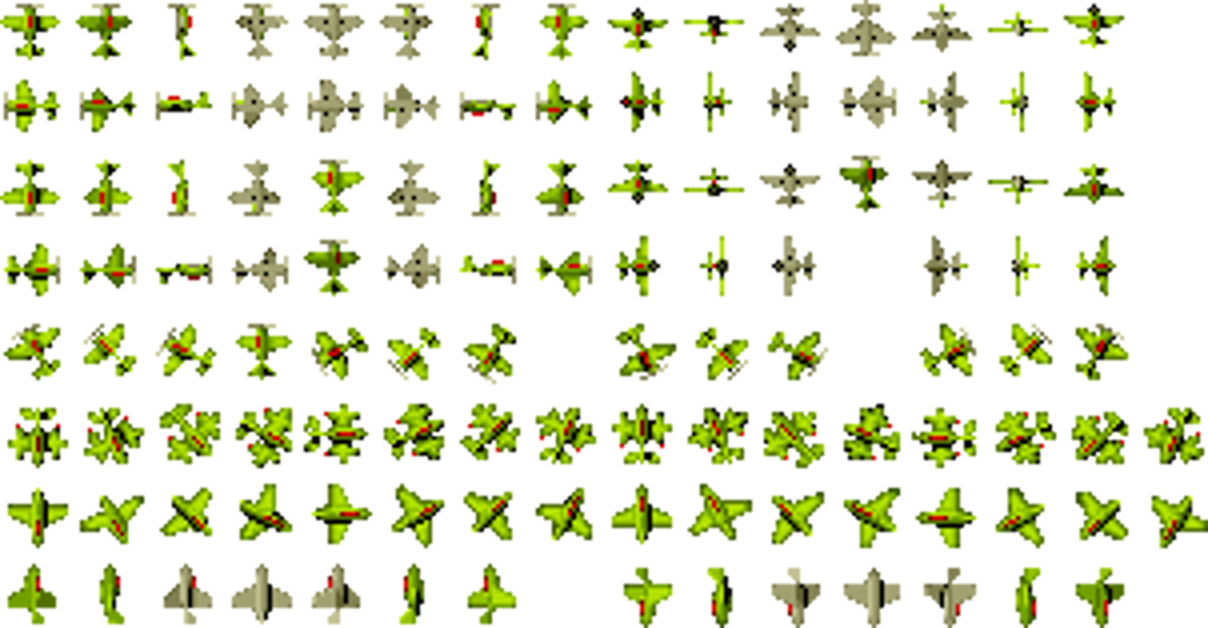
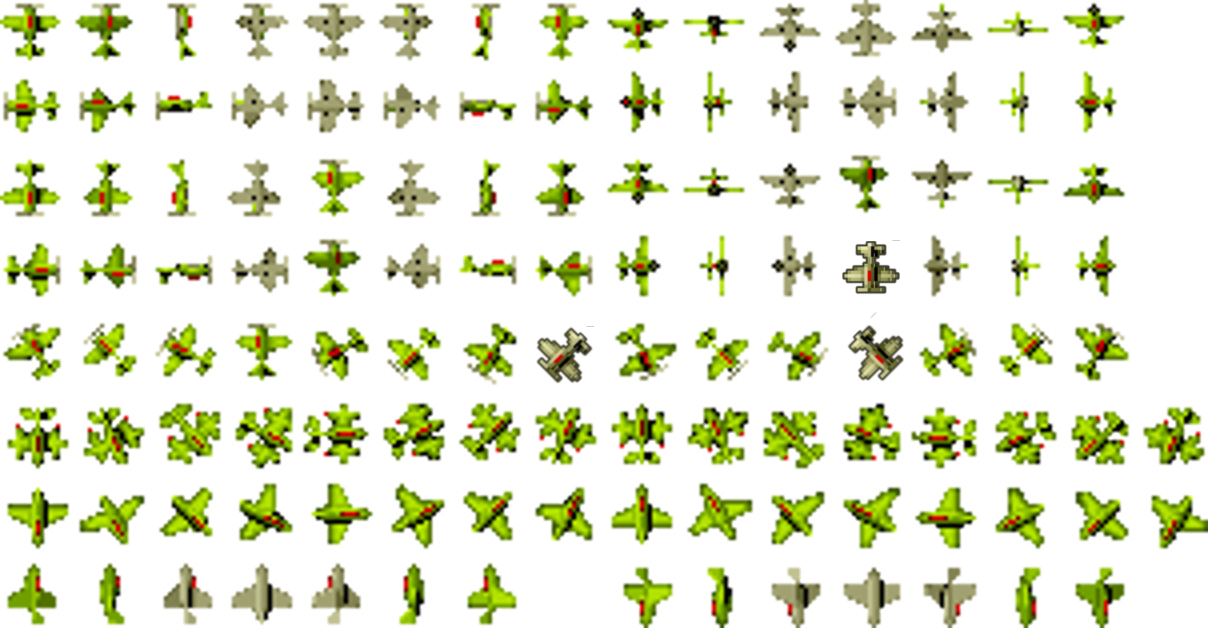
ok

Changed region(s): [[0.7045, 0.5143, 0.7657, 0.6051], [0.6738, 0.3631, 0.7657, 0.4841], [0.4288, 0.5143, 0.4901, 0.6051]]

diff --git a/src/AnimatorHolder.cpp b/src/AnimatorHolder.cpp
@@ -716,41 +716,41 @@ void triggerMedGreenTripleEngAnimators(){
 
 void triggerstartEnemyPlanesTickAnimator(){
     //Bullets
-    TimerTickAnimator::startTimeTickAnimator("enemyBulletsTickAnimation", AnimatorHolder::triggerBullets);
+    //TimerTickAnimator::startTimeTickAnimator("enemyBulletsTickAnimation", AnimatorHolder::triggerBullets);
     
     //Bonus Planes
-    TimerTickAnimator::startTimeTickAnimator("redPlaneTickAnimations", triggerRedPlaneTickAnimations );
+    //TimerTickAnimator::startTimeTickAnimator("redPlaneTickAnimations", triggerRedPlaneTickAnimations );
 	
     //mini green Planes/jets
-   /* TimerTickAnimator::startTimeTickAnimator("miniGreenOneEngTickAnimation", triggerMiniGreenOneEngAnimator );
-   TimerTickAnimator::startTimeTickAnimator("miniGreenDoubleEngTickAnimation", triggerMiniGreenDoubleEngAnimator );
-   TimerTickAnimator::startTimeTickAnimator("miniGreenJetTickAnimation", triggerMiniGreenJetAnimator );
+    //TimerTickAnimator::startTimeTickAnimator("miniGreenOneEngTickAnimation", triggerMiniGreenOneEngAnimator );
+    //TimerTickAnimator::startTimeTickAnimator("miniGreenDoubleEngTickAnimation", triggerMiniGreenDoubleEngAnimator );
+    TimerTickAnimator::startTimeTickAnimator("miniGreenJetTickAnimation", triggerMiniGreenJetAnimator );
     
     //mini  grey Planes/jets
-    TimerTickAnimator::startTimeTickAnimator("miniGreyJetTickAnimation", triggerMiniGreyJetTickAnimator);
-    TimerTickAnimator::startTimeTickAnimator("miniGreyOneEngTickAnimation", triggerMiniGreyOneEngAnimator);
-    TimerTickAnimator::startTimeTickAnimator("miniGreyDoubleEngTickAnimation", triggerMiniGreyDoubleEngAnimator);
+    //TimerTickAnimator::startTimeTickAnimator("miniGreyJetTickAnimation", triggerMiniGreyJetTickAnimator);
+    //TimerTickAnimator::startTimeTickAnimator("miniGreyOneEngTickAnimation", triggerMiniGreyOneEngAnimator);
+    //TimerTickAnimator::startTimeTickAnimator("miniGreyDoubleEngTickAnimation", triggerMiniGreyDoubleEngAnimator);
     
     
     //green medium plane
-    TimerTickAnimator::startTimeTickAnimator("medGreenDoubleEngTickAnimation", triggerMedGreenDoubleEngAnimator);
-    TimerTickAnimator::startTimeTickAnimator("medGreenSingleEngTickAnimation", triggerMedGreenSingleEngAnimator);
-    TimerTickAnimator::startTimeTickAnimator("medGreenTripleEngTickAnimations", triggerMedGreenTripleEngAnimators);
+    //TimerTickAnimator::startTimeTickAnimator("medGreenDoubleEngTickAnimation", triggerMedGreenDoubleEngAnimator);
+    //TimerTickAnimator::startTimeTickAnimator("medGreenSingleEngTickAnimation", triggerMedGreenSingleEngAnimator);
+    //TimerTickAnimator::startTimeTickAnimator("medGreenTripleEngTickAnimations", triggerMedGreenTripleEngAnimators);
     
     //grey medium plane
-    TimerTickAnimator::startTimeTickAnimator("medGreyDoubleEngTickAnimation", triggerMedGreyDoubleAnimator);
-    TimerTickAnimator::startTimeTickAnimator("medGreySingleEngTickAnimation", triggerMedGreySingleAnimator);
-    TimerTickAnimator::startTimeTickAnimator("medGreyTripleEngTickAnimation", triggerMedGreyTripleAnimator);
+    //TimerTickAnimator::startTimeTickAnimator("medGreyDoubleEngTickAnimation", triggerMedGreyDoubleAnimator);
+    //TimerTickAnimator::startTimeTickAnimator("medGreySingleEngTickAnimation", triggerMedGreySingleAnimator);
+    //TimerTickAnimator::startTimeTickAnimator("medGreyTripleEngTickAnimation", triggerMedGreyTripleAnimator);
     
     
     //big plane
-    TimerTickAnimator::startTimeTickAnimator("bigGreenIntroTickAnimation", triggerBigGreenIntroTickAnimators );
-    TimerTickAnimator::startTimeTickAnimator("bigGreenStayStillTickAnimation", triggerBigGreenStayStillTickAnimators );
-    TimerTickAnimator::startTimeTickAnimator("bigGreenOutroTickAnimation", triggerBigGreenOutroTickAnimators );
+    //TimerTickAnimator::startTimeTickAnimator("bigGreenIntroTickAnimation", triggerBigGreenIntroTickAnimators );
+    //TimerTickAnimator::startTimeTickAnimator("bigGreenStayStillTickAnimation", triggerBigGreenStayStillTickAnimators );
+    //TimerTickAnimator::startTimeTickAnimator("bigGreenOutroTickAnimation", triggerBigGreenOutroTickAnimators );
     
     //death star
-    TimerTickAnimator::startTimeTickAnimator("deathStarTickAnimation", triggerDeathStarAnimator );
-   */
+    //TimerTickAnimator::startTimeTickAnimator("deathStarTickAnimation", triggerDeathStarAnimator );
+   
 }
 
 void AnimatorHolder::startTimeTickAnimators(){
@@ -931,6 +931,7 @@ void updateGreyPlaneAnimation(MovingPathAnimator* grayJetAnimator){
         if (grayJetAnimation->getPath().front()._dx >= 0){
             path._dx = -4;
             path._dy = 4;
+            path._frame = 6;
             std::list<PathEntry> p;
             p.push_front(path);
             grayJetAnimation->setPath(p);
@@ -940,6 +941,7 @@ void updateGreyPlaneAnimation(MovingPathAnimator* grayJetAnimator){
         if (grayJetAnimation->getPath().front()._dx <= 0){
             path._dx = 4;
             path._dy = 4;
+            path._frame = 7;
             std::list<PathEntry> p;
             p.push_front(path);
             grayJetAnimation->setPath(p);
@@ -952,6 +954,7 @@ void updateGreyPlaneAnimation(MovingPathAnimator* grayJetAnimator){
             
             path._dx = 0;
             path._dy = 4;
+            path._frame = 0;
             std::list<PathEntry> p;
             p.push_front(path);
             grayJetAnimation->setPath(p);

diff --git a/src/SpritesHolder.cpp b/src/SpritesHolder.cpp
@@ -215,7 +215,6 @@ SDL_Rect getRandomDestRect(EnemyFighterType e,SDL_Rect dst){
     switch (e) {
             
         case EnemyFighterType(1):{
-            dst.x = -dst.w;
             dst.y = rand() % 384 + 92; // random between 92 - 476
             break;}
         case EnemyFighterType(2):{
@@ -223,15 +222,13 @@ SDL_Rect getRandomDestRect(EnemyFighterType e,SDL_Rect dst){
             dst.x = rand() % 384 + 192; // random between 192 - 576
             break;}
         case EnemyFighterType(3):{
-            dst.x = -dst.w;
-            dst.y = rand() % 384 + 92; // random between 92 - 476
+            dst.y = rand() % 384 + 192; // random between 92 - 376
             break;}
         case EnemyFighterType(4):{
             dst.y = -dst.h;
             dst.x = rand() % 690 + 40; // random between  40 - 730
             break;}
         case EnemyFighterType(5):{
-            dst.x = -dst.w;
             dst.y = rand() % 384 + 92; // random between 92 - 476
             break;}
         case EnemyFighterType(6):{
